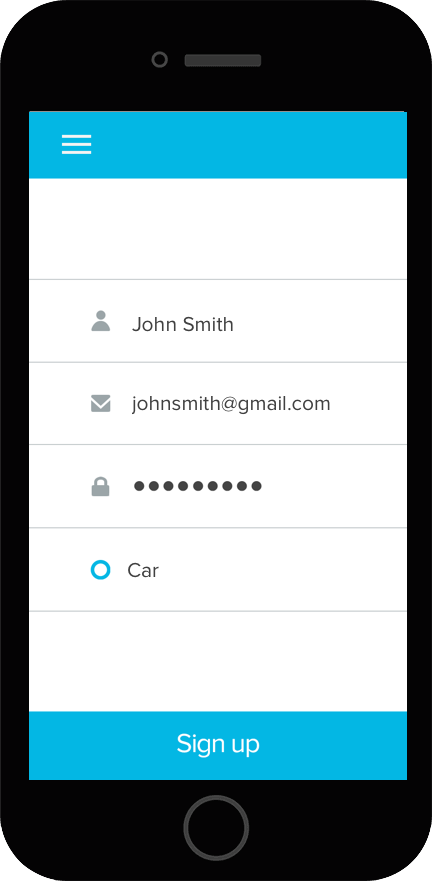
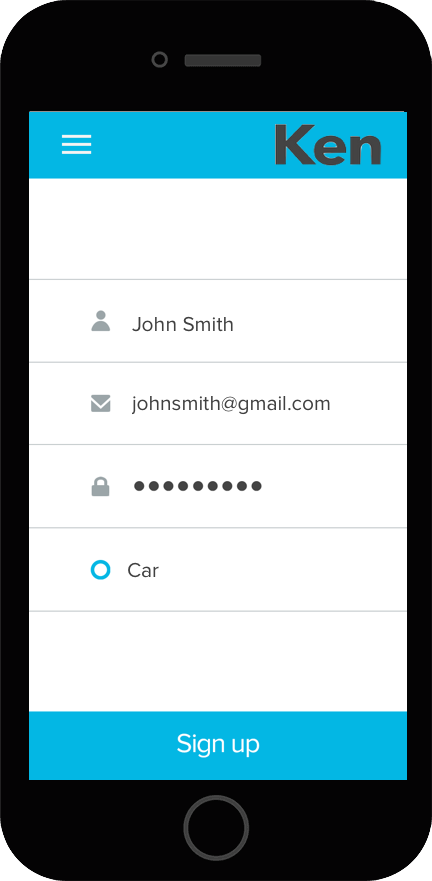
updating screenshots

Changed region(s): [[0.6319, 0.1226, 0.9028, 0.2145]]

diff --git a/mockups.html b/mockups.html
@@ -29,10 +29,10 @@
   <h1>Sign Up Screens</h1>
   <div class="logInScreens">
     <div class="wireframes">
-      <img src="https://github.com/rug1/KEN/blob/gh-pages/Screenshots/Lorry%20Sign%20Up.png?raw=true">
-      <img src="https://github.com/rug1/KEN/blob/gh-pages/Screenshots/Cyclist%20Sign%20Up.png?raw=true">
-      <img src="https://github.com/rug1/KEN/blob/gh-pages/Screenshots/Car%20Sign%20Up.png?raw=true">
+      <img src="file:///Users/ruthuwemedimo/Desktop/KEN/KEN/Screenshots/Cyclist%20Sign%20Up.png">
+      <img src="file:///Users/ruthuwemedimo/Desktop/KEN/KEN/Screenshots/Car%20Sign%20Up.png">
       <img src="https://github.com/rug1/KEN/blob/gh-pages/Screenshots/Bus%20Sign%20Up.png?raw=true">
+        <img src="https://github.com/rug1/KEN/blob/gh-pages/Screenshots/Lorry%20Sign%20Up.png?raw=true">
     </div>
   </div>
 

diff --git a/style.css b/style.css
@@ -6,8 +6,8 @@
   display: block;
   margin-left: auto;
   margin-right: auto;
-  width: 50%;
-  padding-top: 5%;
+  padding-top: 3.5em;
+  width: 90%;
 }
 
 body {
@@ -23,6 +23,7 @@ ul {
   padding-top: 0.5em;
   padding-bottom: 0.5em;
   float: right;
+  padding-right: 4em;
 }
 
 li {

diff --git a/index.html b/index.html
@@ -15,7 +15,7 @@
         <ul>
       </div>
 
-      <img class="kenDesign" src="https://github.com/rug1/KEN/blob/gh-pages/Screenshots/KEN.png?raw=true">
+      <img class="kenDesign" src="file:///Users/ruthuwemedimo/Downloads/Ken-Branding.png">
 
   </body>
 </html>
